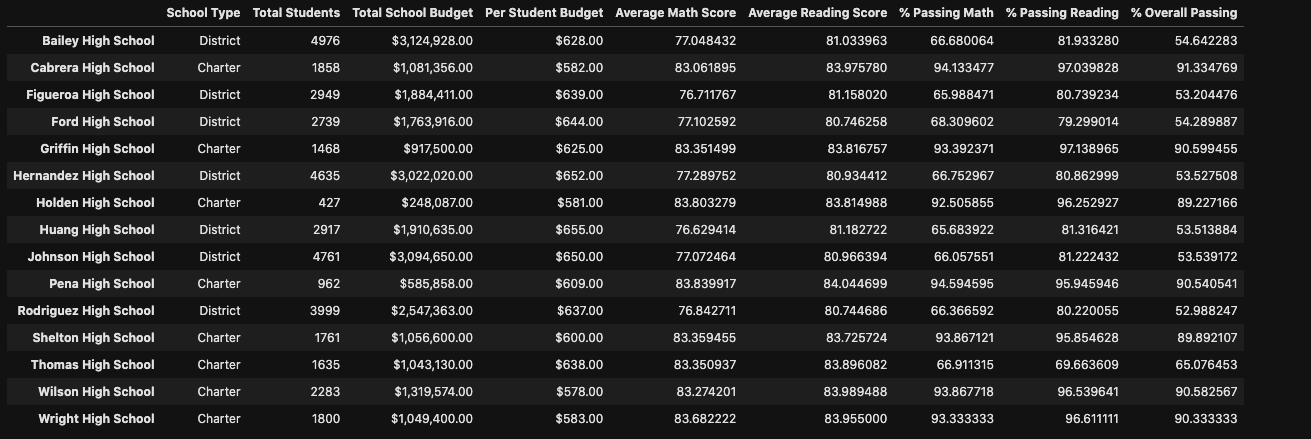
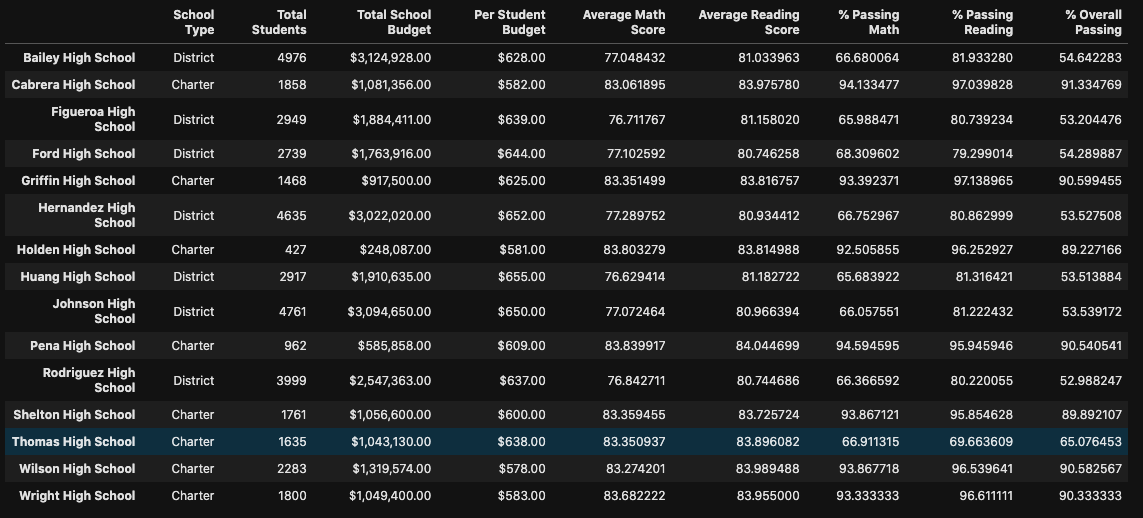
updated read me

diff --git a/README.md b/README.md
@@ -5,7 +5,7 @@ The purpose of this analysis was to help the chief data scientist of a city scho
 
 ## Results
 
-### District Summary Before and After Altered Data Was Removed
+### District Summary Before and After Thomas High School 9th Grade Math and Reading Scores Were Removed
 
 #### Before
 ![old_district_summary](https://user-images.githubusercontent.com/90878911/137651718-2b44afa3-8ad1-4da9-b246-6937fa09108a.png)
@@ -16,10 +16,12 @@ The purpose of this analysis was to help the chief data scientist of a city scho
 From this, we can see that removing the data in question did not significantly alter district-wide scores. In fact, the only difference is that the average math score dropped by .1 points.
 
 
-### Per School Summary Before and After Altered Data Was Removed
+### Per School Summary Before and After Thomas High School 9th Grade Reading and Math Scores Were Removed
 
 #### Before
-![old_school_summary](https://user-images.githubusercontent.com/90878911/137651706-4ee349f7-db6e-4fb2-b8dc-90837b406412.png)
+![old_school_summary](https://user-images.githubusercontent.com/90878911/137652948-d59f4559-fc53-4402-8e2b-28619dcf941a.png)
 
 #### After	
-![new_school_summary](https://user-images.githubusercontent.com/90878911/137651723-d88073be-9616-4015-bde3-5568830890fb.png)
+![new_school_summary](https://user-images.githubusercontent.com/90878911/137652814-d5bd91a5-b756-4c12-a358-44933fae1615.png)
+
+After removing the math and reading scores from Thomas High School, we can see that while the average scores were largely unaffected, the "Percent Passing" metrics fell drastically. That's because this summary was still counting the 9th graders in the total student count even though their scores were removed from the data set.
